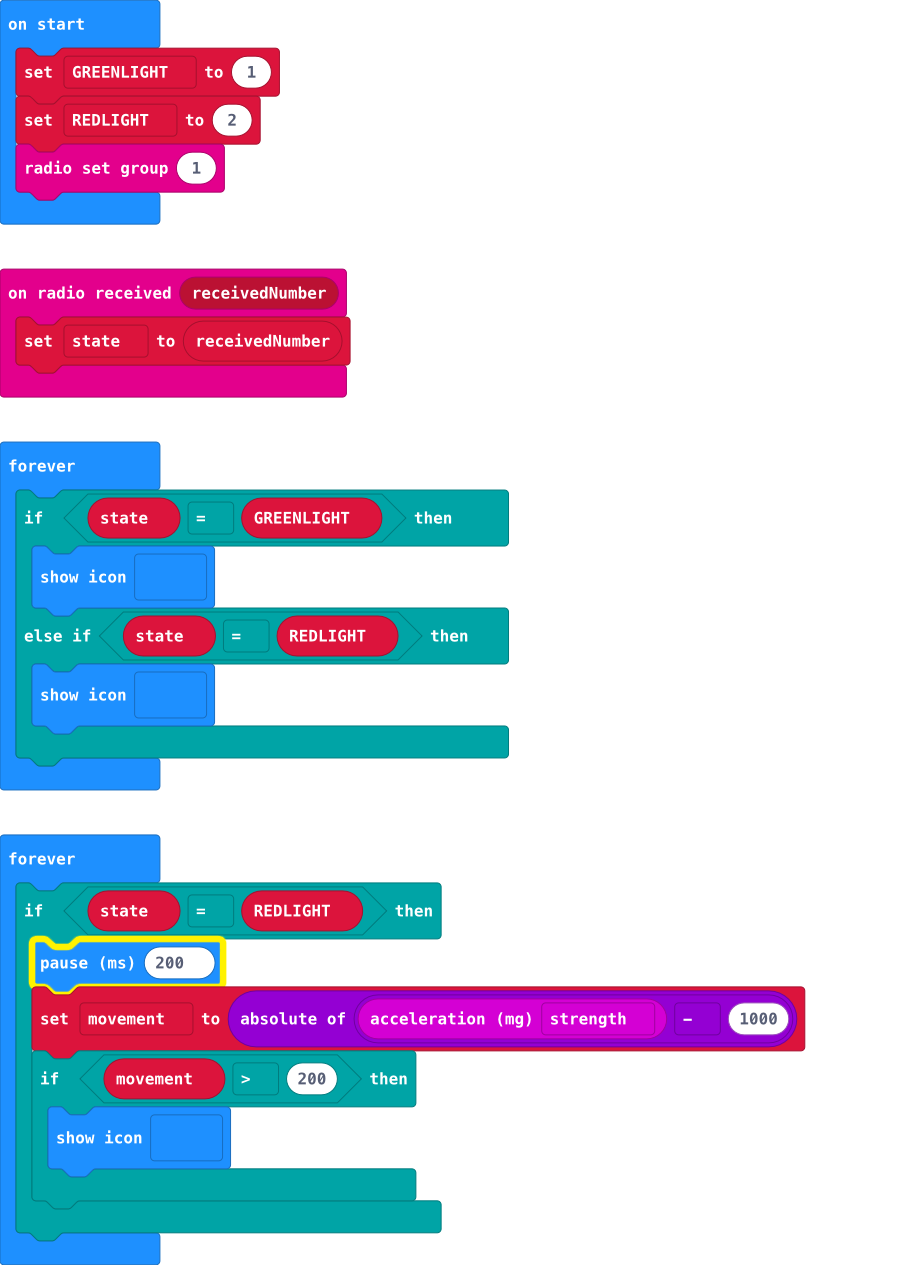
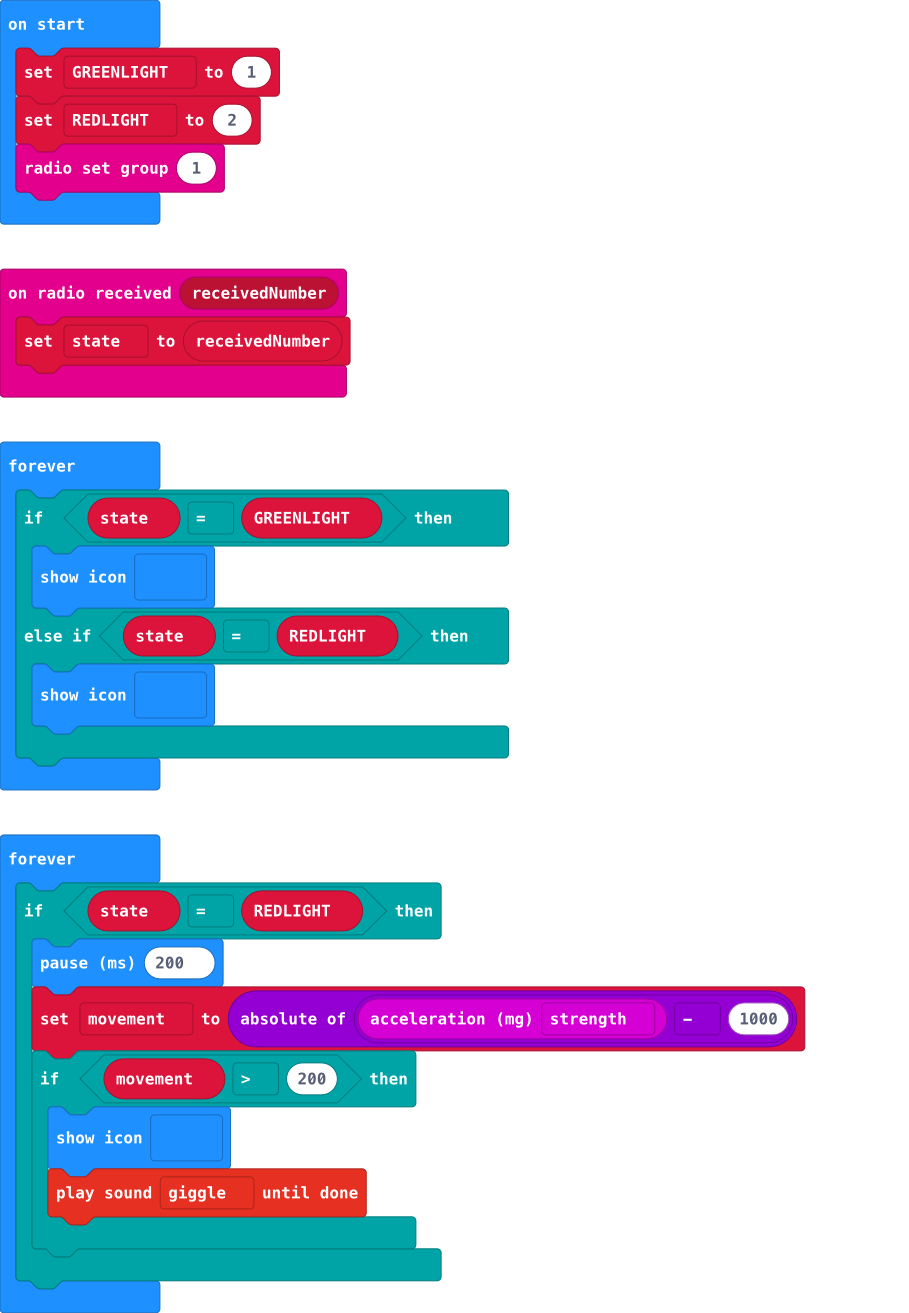
Update main.ts, main.blocks

Changed region(s): [[0.0, 0.0, 0.8933, 0.9557]]

diff --git a/main.ts b/main.ts
@@ -19,6 +19,7 @@ basic.forever(function () {
         movement = Math.abs(input.acceleration(Dimension.Strength) - 1000)
         if (movement > 200) {
             basic.showIcon(IconNames.Skull)
+            soundExpression.giggle.playUntilDone()
         }
     }
 })
